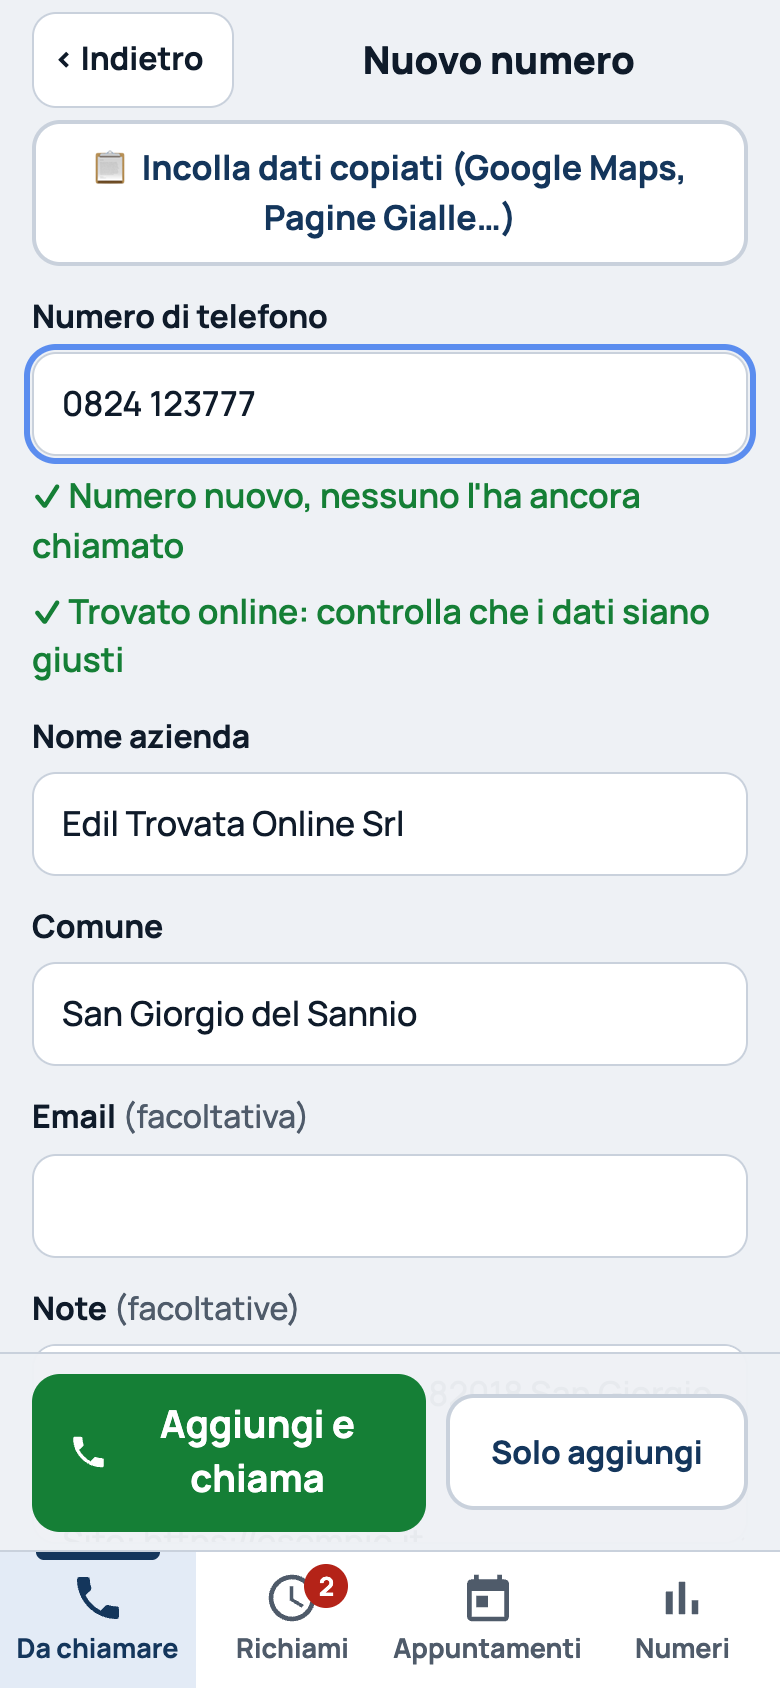
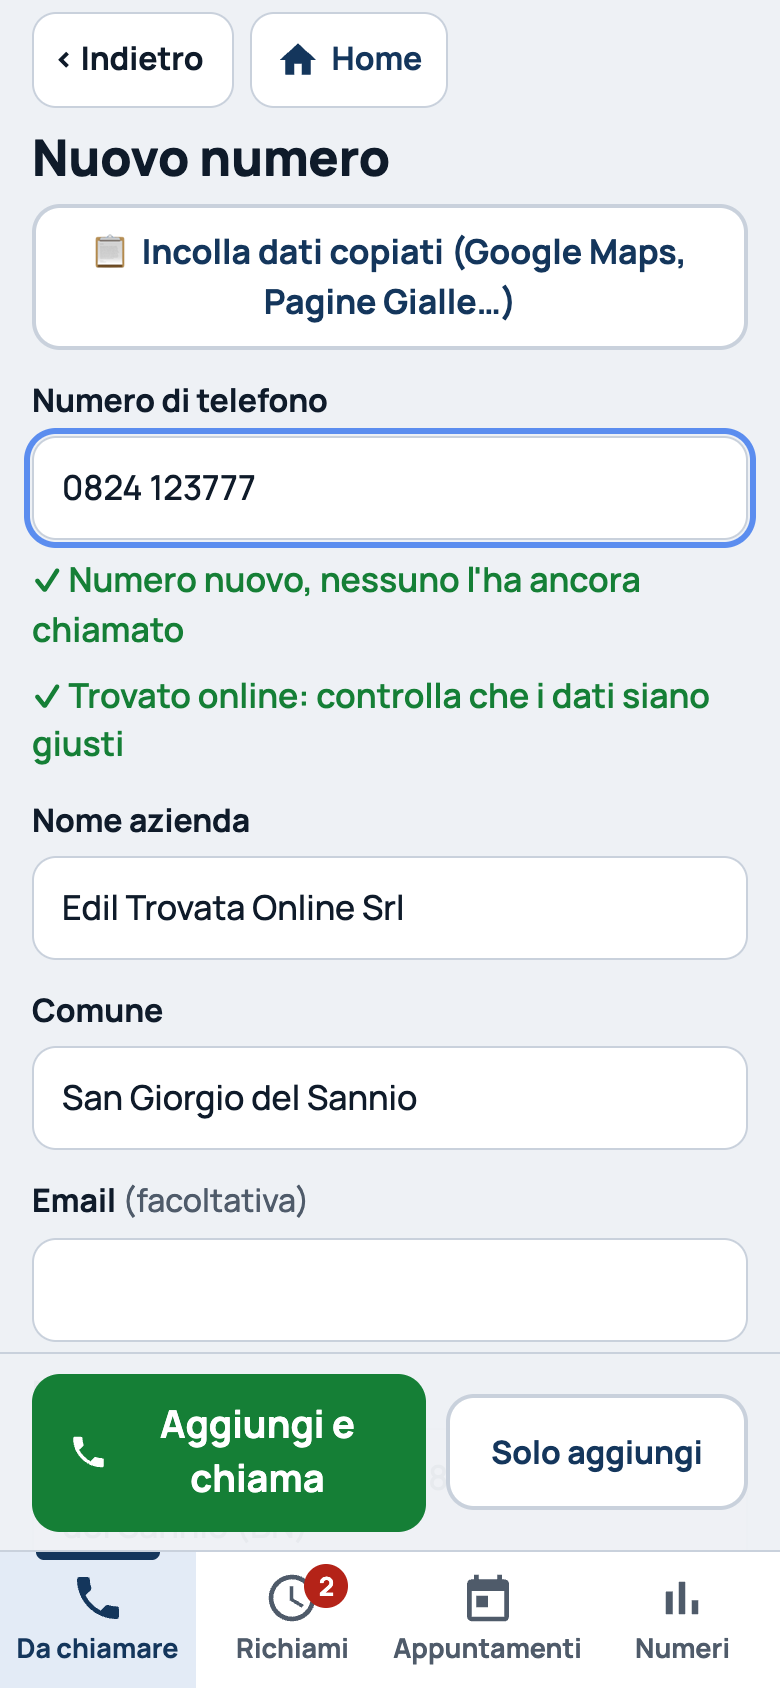
Tasto Home, Chiedi a Google, Salta
- Home accanto a Indietro nelle schermate interne; titoli sotto i pulsanti
- "Chiedi a Google" accanto al numero: modalità IA con nome, comune, numero, attività e fatturato
- "Salta" passa al prossimo senza modificare la scheda e non ripropone i saltati

diff --git a/js/schermate.js b/js/schermate.js
@@ -132,8 +132,20 @@ export function DaChiamare() {
 }
 
 // ---- Scheda azienda + registrazione della chiamata ----
+// Apre la modalità IA di Google (udm=50) con la domanda già scritta; se non c'è, Google fa una ricerca normale
+function linkGoogleIA(a) {
+  const domanda = `${a.nome_azienda}${a.comune ? ' ' + a.comune : ''} tel. ${telefonoLeggibile(a.telefono)}: di cosa si occupa questa azienda, quanti dipendenti ha e che fatturato ha?`;
+  return 'https://www.google.com/search?udm=50&q=' + encodeURIComponent(domanda);
+}
+
+// Quelli saltati con "Salta" non vengono riproposti finché la lista non finisce
+const saltati = new Set();
 function prossimoDopo(id) {
-  return daChiamare(filtri).find(a => a.id !== id && !chiamaUnAltro(a));
+  const libera = a => a.id !== id && !chiamaUnAltro(a);
+  const lista = daChiamare(filtri);
+  let prossimo = lista.find(a => libera(a) && !saltati.has(a.id));
+  if (!prossimo && saltati.size) { saltati.clear(); prossimo = lista.find(libera); }
+  return prossimo;
 }
 
 export function Scheda({ id }) {
@@ -191,6 +203,15 @@ export function Scheda({ id }) {
     setTimeout(() => passo2.current?.scrollIntoView({ behavior: 'smooth', block: 'start' }), 50);
   }
 
+  // Passa al prossimo senza cambiare nulla di questa azienda
+  function salta() {
+    if (!puoiUscire()) return;
+    saltati.add(a.id);
+    const prossimo = prossimoDopo(a.id);
+    if (prossimo) { avviso(`Saltata. Ora: ${prossimo.nome_azienda}`); vai('/azienda/' + prossimo.id); }
+    else avviso('Non ci sono altri numeri da chiamare.');
+  }
+
   async function salva(eProssimo) {
     if (e.chiede === 'richiamo' && !richiamo) { setProblema('Scegli quando richiamare.'); return; }
     if (e.chiede === 'appuntamento' && !appuntamento) { setProblema('Scegli giorno e ora della demo.'); return; }
@@ -223,7 +244,10 @@ export function Scheda({ id }) {
     <div class="scheda-testa">
       <${Intestazione} conIndietro destra=${html`<button class="pulsante-altro" onClick=${() => puoiUscire() && vai('/modifica/' + a.id)}>✏ Modifica</button>`} />
       <h1 class="scheda-nome">${a.nome_azienda}</h1>
-      <p class="scheda-sotto">${a.comune || 'Comune?'} · ${telefonoLeggibile(a.telefono)}</p>
+      <div class="scheda-sotto">
+        <span>${a.comune || 'Comune?'} · ${telefonoLeggibile(a.telefono)}</span>
+        <a class="chiedi-google" href=${linkGoogleIA(a)} target="_blank" rel="noopener" aria-label="Chiedi a Google cosa fanno e che fatturato hanno">✨ Chiedi a Google</a>
+      </div>
     </div>
     <${AvvisoInChiamata} azienda=${a} />
     ${nuovaDiAltri && html`<div class="banner banner-info"><b>${nuovaDiAltri.utente_nome}</b> ha appena registrato: ${datiEsito(nuovaDiAltri.esito).nome}${nuovaDiAltri.nota ? ` – “${nuovaDiAltri.nota}”` : ''}</div>`}
@@ -304,7 +328,10 @@ export function Scheda({ id }) {
             <${PulsanteChiama} azienda=${a} poi=${vaiAgliEsiti} />
             <button class="pulsante primario grande" disabled=${salvo} onClick=${() => salva(true)}>${salvo ? 'Salvo…' : 'Salva e passa al prossimo'}</button>
           </div>`
-        : html`<${PulsanteChiama} azienda=${a} grande poi=${vaiAgliEsiti} />`}
+        : html`<div class="riga-pulsanti">
+            <${PulsanteChiama} azienda=${a} grande poi=${vaiAgliEsiti} />
+            <button class="pulsante secondario grande salta" onClick=${salta}>Salta ›</button>
+          </div>`}
     </div>
   </main>`;
 }

diff --git a/stile.css b/stile.css
@@ -48,13 +48,20 @@ h1, h2, h3 { line-height: 1.2; margin: 0; }
   min-height: 60px; padding-top: env(safe-area-inset-top, 0px);
 }
 .intestazione h1 { font-size: 26px; font-weight: 800; flex: 1; }
-.intestazione .titolo-piccolo { font-size: 19px; text-align: center; }
+.titolo-pagina { font-size: 25px; font-weight: 800; margin: 4px 0 8px; }
 .indietro, .pulsante-altro {
   min-height: 48px; padding: 0 14px; border-radius: 12px;
   background: var(--carta); border: 1.5px solid var(--bordo);
   font-weight: 700; font-size: 16px; cursor: pointer;
 }
 .indietro { padding-left: 10px; }
+.pulsante-home {
+  display: inline-flex; align-items: center; gap: 6px;
+  min-height: 48px; padding: 0 12px; border-radius: 12px;
+  background: var(--carta); border: 1.5px solid var(--bordo);
+  font-weight: 700; font-size: 16px; color: var(--blu); cursor: pointer;
+}
+.pulsante-home svg { width: 22px; height: 22px; fill: currentColor; }
 .pulsante-altro { margin-left: auto; }
 
 /* ---- Pulsanti ---- */
@@ -181,7 +188,14 @@ input:focus, select:focus, textarea:focus, button:focus-visible, a:focus-visible
 
 /* ---- Scheda ---- */
 .scheda-nome { font-size: 25px; font-weight: 800; margin-top: 4px; }
-.scheda-sotto { margin: 4px 0 6px; color: var(--tenue); font-weight: 600; }
+.scheda-sotto { display: flex; flex-wrap: wrap; align-items: center; justify-content: space-between; gap: 6px 10px; margin: 4px 0 6px; color: var(--tenue); font-weight: 600; }
+.chiedi-google {
+  display: inline-flex; align-items: center; min-height: 44px; padding: 0 12px; border-radius: 12px;
+  background: var(--carta); border: 1.5px solid var(--bordo); color: var(--blu);
+  font-size: 15px; font-weight: 700; text-decoration: none; white-space: nowrap;
+}
+.riga-pulsanti .pulsante-chiama { flex: 2; }
+.riga-pulsanti .salta { flex: 1; }
 .riquadro { background: var(--carta); border-radius: 16px; padding: 12px 14px; margin: 12px 0; border: 1.5px solid #dfe4ea; }
 .info > div { padding: 5px 0; }
 .etichetta { display: inline-block; min-width: 110px; color: var(--tenue); font-weight: 600; }

diff --git a/js/app.js b/js/app.js
@@ -56,6 +56,7 @@ export const icone = {
   orologio: html`<svg viewBox="0 0 24 24" aria-hidden="true"><path d="M12 2a10 10 0 1 0 0 20 10 10 0 0 0 0-20zm0 18a8 8 0 1 1 0-16 8 8 0 0 1 0 16zm.5-13H11v6l5.2 3.2.8-1.3-4.5-2.7z"/></svg>`,
   calendario: html`<svg viewBox="0 0 24 24" aria-hidden="true"><path d="M19 4h-1V2h-2v2H8V2H6v2H5a2 2 0 0 0-2 2v14c0 1.1.9 2 2 2h14a2 2 0 0 0 2-2V6a2 2 0 0 0-2-2zm0 16H5V9h14v11zM7 11h5v5H7z"/></svg>`,
   numeri: html`<svg viewBox="0 0 24 24" aria-hidden="true"><path d="M5 9.2h3V19H5zM10.6 5h2.8v14h-2.8zm5.6 8H19v6h-2.8z"/></svg>`,
+  casa: html`<svg viewBox="0 0 24 24" aria-hidden="true"><path d="M12 3 2 12h3v8h5v-6h4v6h5v-8h3z"/></svg>`,
 };
 
 // Tasto "Chiama": apre il telefono e segnala agli altri "sto chiamando"
@@ -105,10 +106,11 @@ export function AvvisoInChiamata({ azienda }) {
 
 export function Intestazione({ titolo, conIndietro, destra }) {
   return html`<header class="intestazione">
-    ${conIndietro ? html`<button class="indietro" onClick=${() => puoiUscire() && indietro()}>‹ Indietro</button>` : html`<h1>${titolo}</h1>`}
-    ${conIndietro && titolo ? html`<h1 class="titolo-piccolo">${titolo}</h1>` : ''}
+    ${conIndietro ? html`<button class="indietro" onClick=${() => puoiUscire() && indietro()}>‹ Indietro</button>
+      <button class="pulsante-home" onClick=${() => puoiUscire() && vai('/')} aria-label="Torna a Da chiamare">${icone.casa}<span>Home</span></button>` : html`<h1>${titolo}</h1>`}
     ${destra !== undefined ? destra : html`<button class="pulsante-altro" onClick=${() => puoiUscire() && vai('/altro')}>Altro</button>`}
-  </header>`;
+  </header>
+  ${conIndietro && titolo ? html`<h1 class="titolo-pagina">${titolo}</h1>` : ''}`;
 }
 
 // ---- Accesso ----
